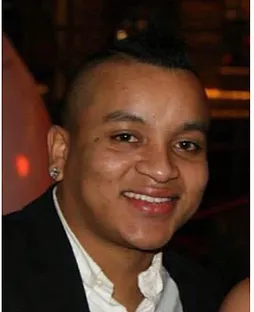
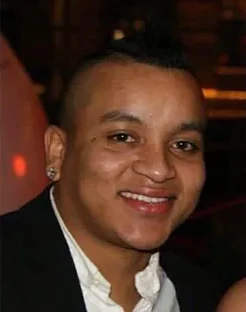
chore: work on image look

diff --git a/src/components/Home/Partners/index.tsx b/src/components/Home/Partners/index.tsx
@@ -48,7 +48,7 @@ export default function Partners() {
               >
                 <div className="space-y-6 xl:space-y-10">
                   <img
-                    className="mx-auto h-40 w-40 rounded-full xl:w-56 xl:h-56"
+                    className="mx-auto h-40 w-40 rounded-full xl:w-56 xl:h-56 object-scale-down"
                     src={partner.imageUrl}
                     alt=""
                   />

diff --git a/src/components/Home/Team/index.tsx b/src/components/Home/Team/index.tsx
@@ -43,7 +43,7 @@ export default function Team() {
               <li key={person.name}>
                 <div className="space-y-6">
                   <img
-                    className="mx-auto h-40 w-40 rounded-full xl:w-56 xl:h-56"
+                    className="mx-auto h-40 w-40 rounded-full xl:w-56 xl:h-56 object-cover"
                     src={person.imageUrl}
                     alt=""
                   />
